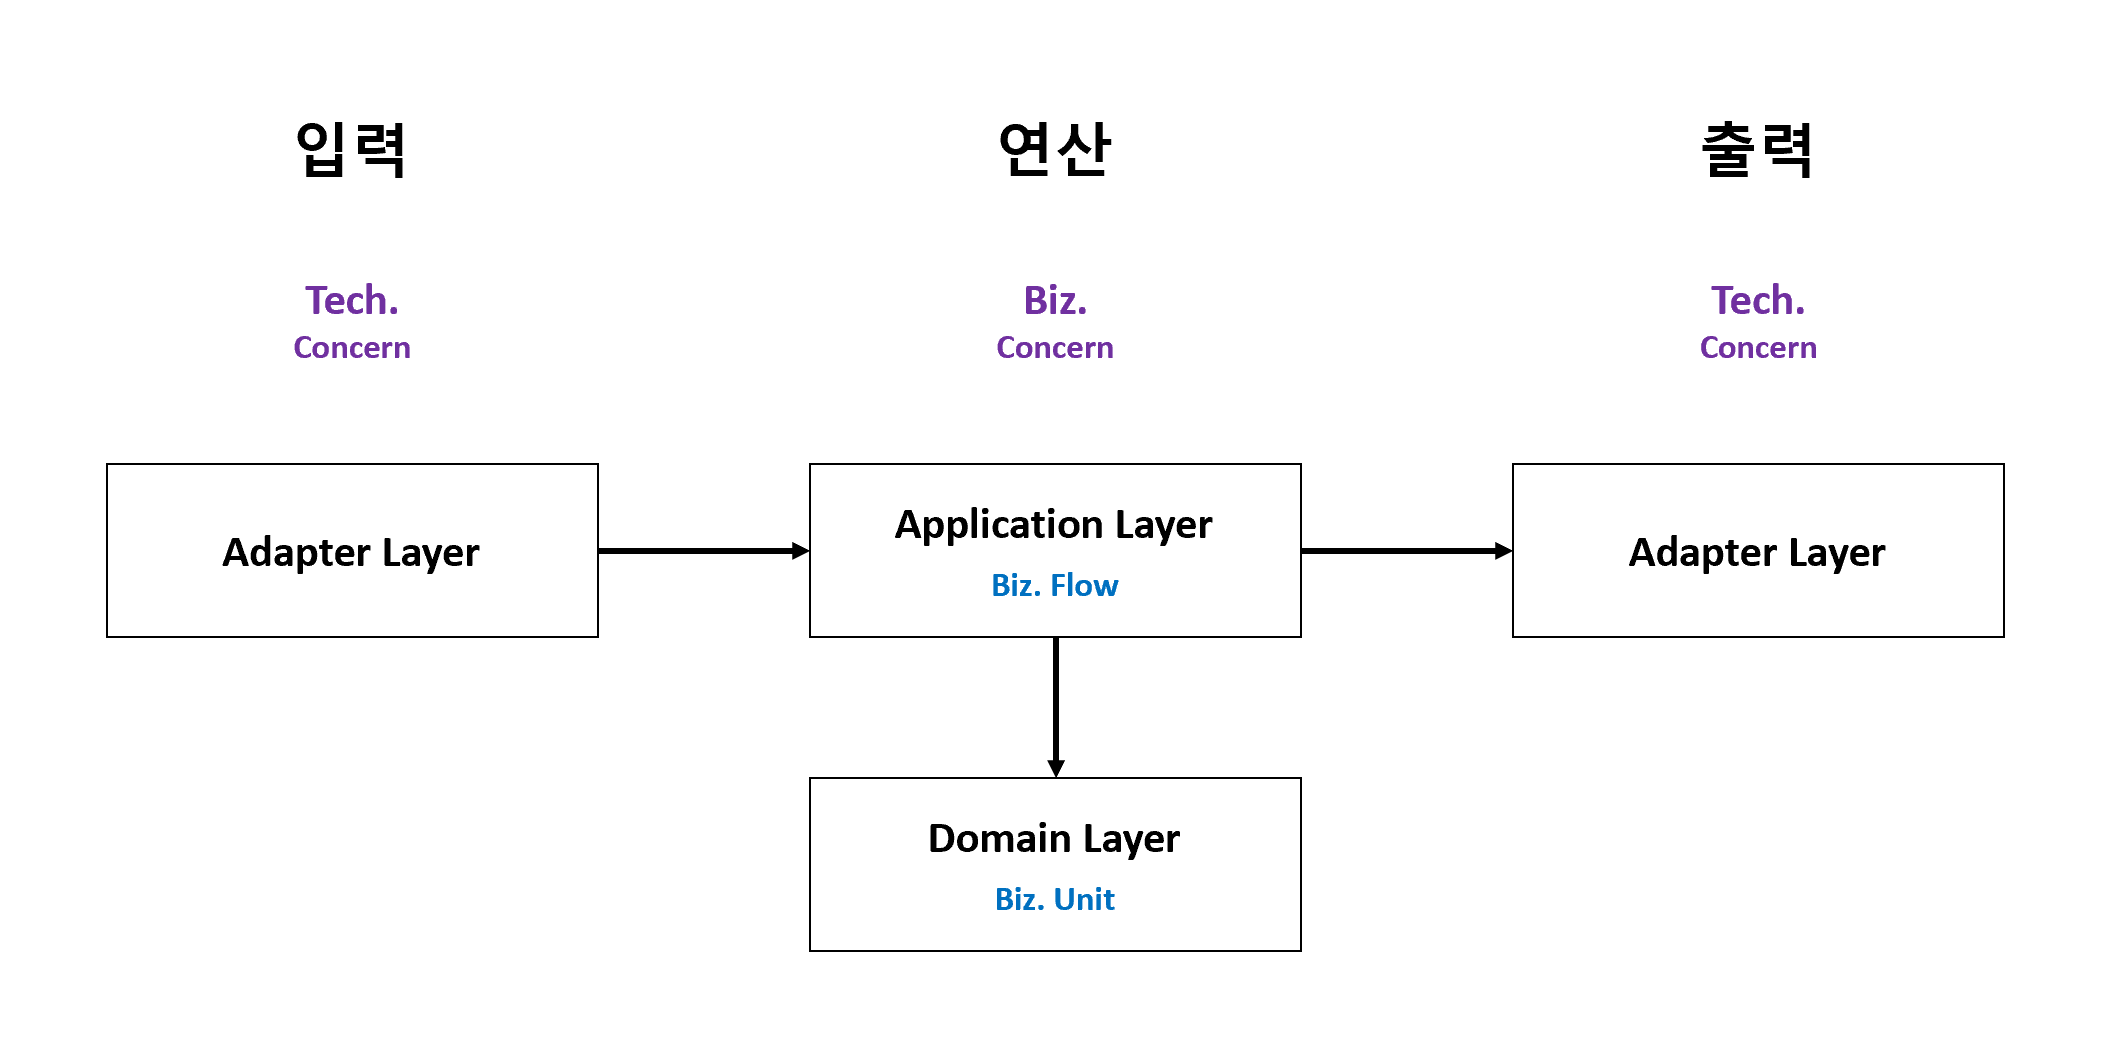
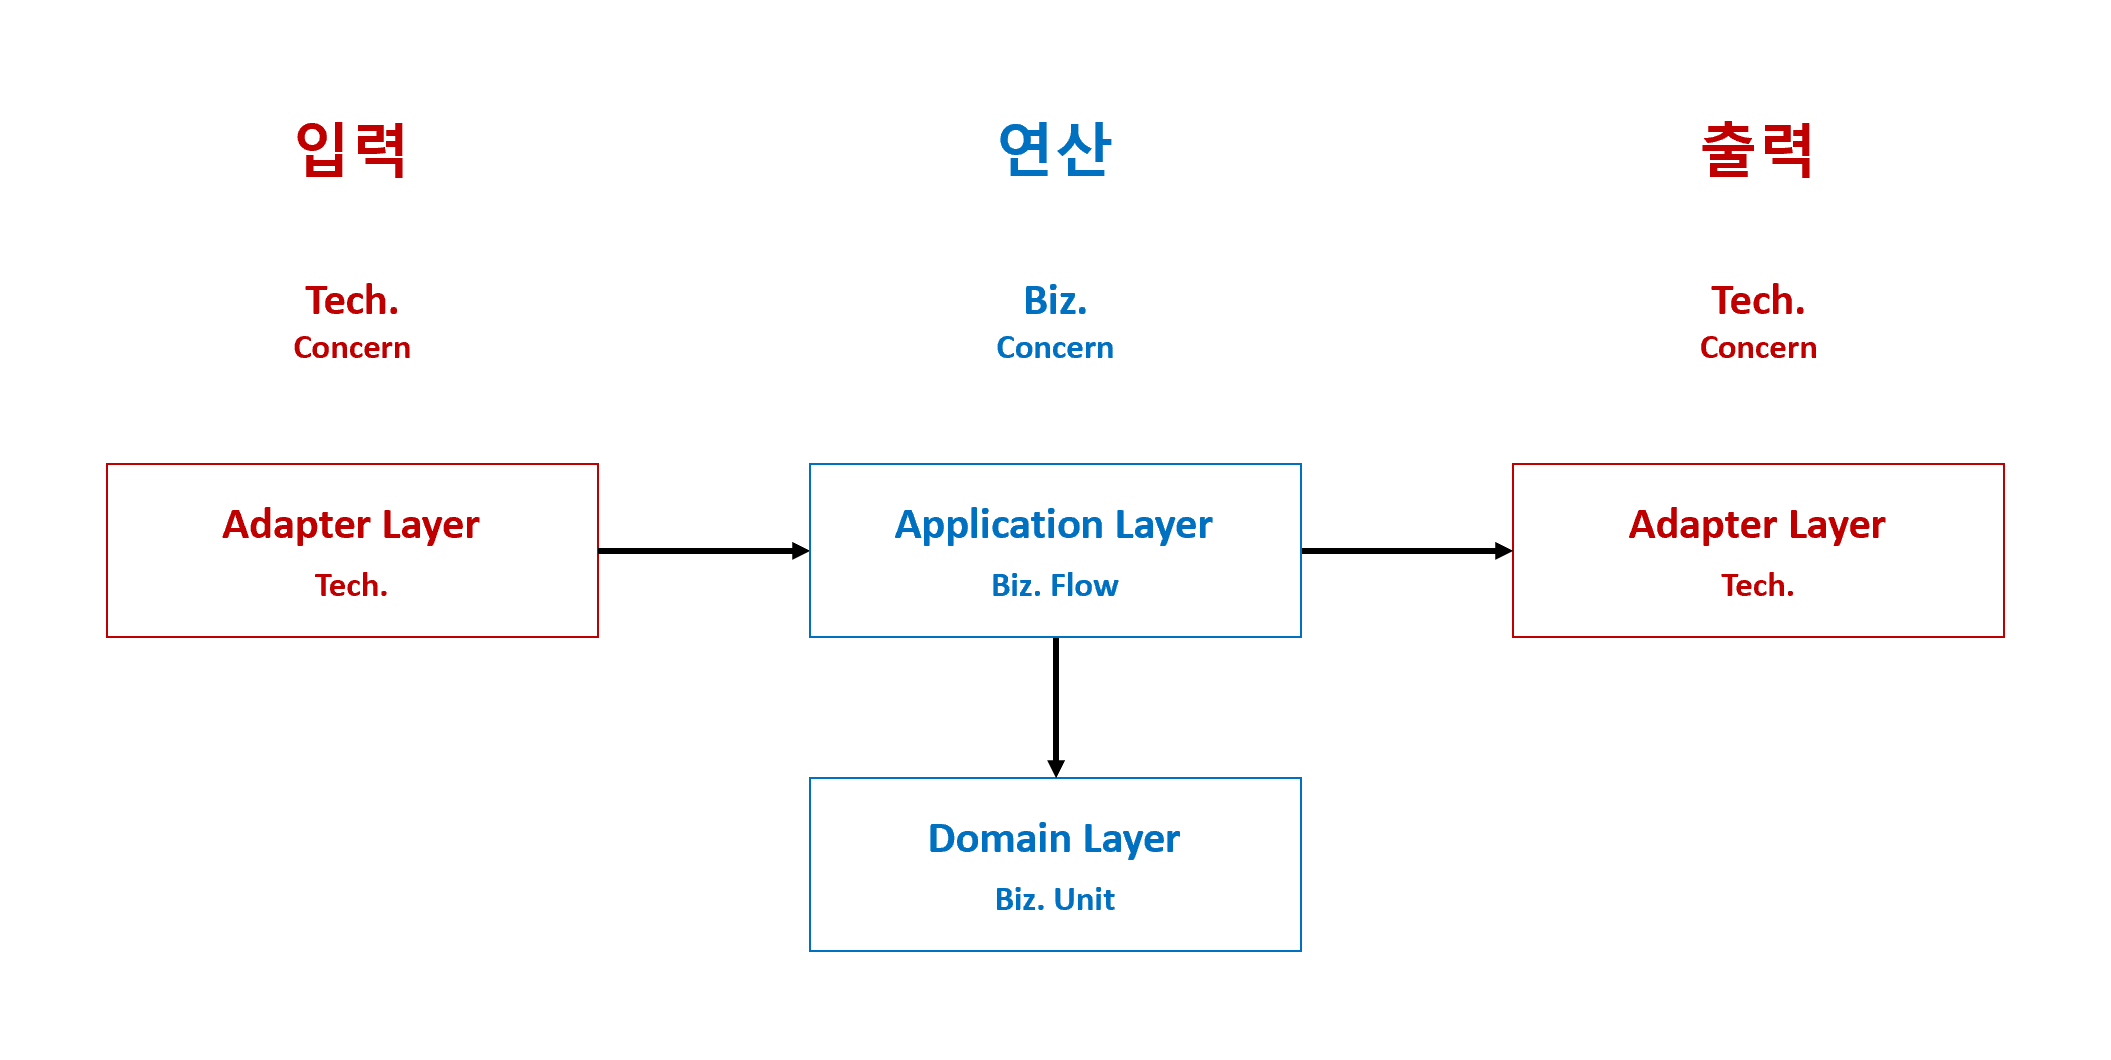
docs: 이미지 교체

diff --git a/Part01-Overview/Ch02-SolutionStructure/README.md b/Part01-Overview/Ch02-SolutionStructure/README.md
@@ -3,46 +3,46 @@
 ## 솔루션 구조 템플릿
 ```shell
 {Product}.sln
-  │ # Abstraction 범주: Backend와 Frontend을 구성하기 위해 필요한 부수적인 코드
-  ├───Abstraction
-  │   ├───Frameworks
-  │   │   ├───{Corporation}.{Product}.Framework
-  │   │   └───{Corporation}.{Product}.Framework.Contracts
-  │   └───Libraries
-  │       └───{Corporation}.{Product}.{Tech}                                    // 예. RabbitMQ, ...
+  │ # 범주 Abstraction: Backend와 Frontend을 구성하기 위해 필요한 부수적인 코드
+  ├─Abstraction
+  │   ├─Frameworks
+  │   │   ├─{Corporation}.{Product}.Framework
+  │   │   └─{Corporation}.{Product}.Framework.Contracts
+  │   └─Libraries
+  │       └─{Corporation}.{Product}.{Tech}                                    // 예. RabbitMQ, ...
   │
-  │ # Backend 범주
-  ├───Backend
-  │   ├───{Service}
-  │   │   ├───Src
-  │   │   │   ├───{Corporation}.{Product}.{Service}                             // 호스트 프로젝트
-  │   │   │   ├───{Corporation}.{Product}.{Service}.Adapters.Infrastructure     // Adapter 레이어
-  │   │   │   ├───{Corporation}.{Product}.{Service}.Adapters.Persistence        // Adapter 레이어
-  │   │   │   ├───{Corporation}.{Product}.{Service}.Application                 // Application 레이어
-  │   │   │   └───{Corporation}.{Product}.{Service}.Domain                      // Domain 레이어
-  │   │   └───Tests
-  │   │       ├───{Corporation}.{Product}.{Service}.Tests.Integration           // Integration 테스트
-  │   │       ├───{Corporation}.{Product}.{Service}.Tests.Performance           // Performance 테스트
-  │   │       └───{Corporation}.{Product}.{Service}.Tests.Unit                  // Unit Test
-  │   ├───{Service}
-  │   │   ├───Src
-  │   │   └───Tests
-  │   └───Tests
-  │       └───{Corporation}.{Product}.Tests.E2E                                 // End to End 테스트
+  │ # 범주 Backend
+  ├─Backend
+  │   ├─{Service}
+  │   │   ├─Src
+  │   │   │   ├─{Corporation}.{Product}.{Service}                             // 호스트 프로젝트
+  │   │   │   ├─{Corporation}.{Product}.{Service}.Adapters.Infrastructure     // Adapter 레이어
+  │   │   │   ├─{Corporation}.{Product}.{Service}.Adapters.Persistence        // Adapter 레이어
+  │   │   │   ├─{Corporation}.{Product}.{Service}.Application                 // Application 레이어
+  │   │   │   └─{Corporation}.{Product}.{Service}.Domain                      // Domain 레이어
+  │   │   └─Tests
+  │   │       ├─{Corporation}.{Product}.{Service}.Tests.Integration           // Integration 테스트
+  │   │       ├─{Corporation}.{Product}.{Service}.Tests.Performance           // Performance 테스트
+  │   │       └─{Corporation}.{Product}.{Service}.Tests.Unit                  // Unit Test
+  │   ├─{Service}
+  │   │   ├─Src
+  │   │   └─Tests
+  │   └─Tests
+  │       └─{Corporation}.{Product}.Tests.E2E                                 // End to End 테스트
   │
-  │ # Frontend 범주
-  └───Frontend
-      └───{UI}
-          ├───Src
-          │   ├───{Corporation}.{Product}.{UI}                                  // 호스트 프로젝트
-          │   ├───{Corporation}.{Product}.{UI}.Adapters.Infrastructure          // Adapter 레이어
-          │   ├───{Corporation}.{Product}.{UI}.Adapters.Persistence             // Adapter 레이어
-          │   ├───{Corporation}.{Product}.{UI}.Application                      // Application 레이어
-          │   └───{Corporation}.{Product}.{UI}.Domain                           // Domain 레이어
-          └───Tests
-              ├───{Corporation}.{Product}.{UI}.Tests.Integration                // Integration 테스트
-              ├───{Corporation}.{Product}.{UI}.Tests.Performance                // Performance 테스트
-              └───{Corporation}.{Product}.{UI}.Tests.Unit                       // Unit Test
+  │ # 범주 Frontend
+  └─Frontend
+      └─{UI}
+          ├─Src
+          │   ├─{Corporation}.{Product}.{UI}                                  // 호스트 프로젝트
+          │   ├─{Corporation}.{Product}.{UI}.Adapters.Infrastructure          // Adapter 레이어
+          │   ├─{Corporation}.{Product}.{UI}.Adapters.Persistence             // Adapter 레이어
+          │   ├─{Corporation}.{Product}.{UI}.Application                      // Application 레이어
+          │   └─{Corporation}.{Product}.{UI}.Domain                           // Domain 레이어
+          └─Tests
+              ├─{Corporation}.{Product}.{UI}.Tests.Integration                // Integration 테스트
+              ├─{Corporation}.{Product}.{UI}.Tests.Performance                // Performance 테스트
+              └─{Corporation}.{Product}.{UI}.Tests.Unit                       // Unit Test
 ```
 
 - **범주**
@@ -62,7 +62,7 @@
   - {UI}: Frontend 프로그램
 
 
-## 솔루션 구조 예제
+## 솔루션 구조 예
 ![](./.images/SolutionExplorer.png)
 
 - **이름**

diff --git a/Part01-Overview/Ch01-SoC/README.md b/Part01-Overview/Ch01-SoC/README.md
@@ -6,6 +6,11 @@
   - 운영할 때: **로그**를 비즈니스와 기술 관심사로 식별합니다.
 - Layer
   - 분해하고 식별된 코드는 **레이어 단위**로 관리합니다.
+    - 기술 관심사
+      - Adapter
+    - 비즈니스 관심사
+      - Application: 비즈니스 흐름
+      - Domain: 비즈니스 단위
 
 ![](./.images/SoC.png)
 
